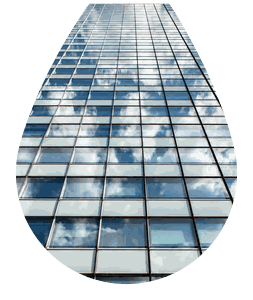
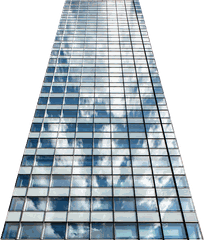
Stand the Corporate Gifting tower on its disc like the Bakhoor tin
The owner rejected the version clipped round to the rim. The photo looks
steeply up at the tower, so as shot it is far wider at the bottom than a
circle can hold standing up. Its perspective is partly straightened (roof 36%
of the base instead of 19%) and it is cut on a window line for a flat base.
It now takes the tin's placement exactly: 82% of the circle wide, base 24% up
with the disc showing below, the roof rising past the top edge, and the same
shadows and hover lift. The pop-tower placement and its build hook are gone.

Measured: the same rise as the tin (11.9px on the 58px phone circle, 22.1px on
the 108px desktop one) and the same room below the base (13.9px and 25.9px).
The base corners sit at 0.97 of the radius, inside the circle, and on phones
the roof clears the first-row labels by 101px. At 375x812 the circles still
clear the tab bar by 6px.

diff --git a/flow/index.html b/flow/index.html
@@ -13,7 +13,7 @@
 <link rel="icon" type="image/png" sizes="32x32" href="assets/img/favicon-32.png">
 <link rel="icon" type="image/png" sizes="16x16" href="assets/img/favicon-16.png">
 <link rel="apple-touch-icon" href="assets/img/apple-touch-icon.png">
-<link rel="stylesheet" href="assets/flow.css?v=0fdcc03d"></head><body class="page-index">
+<link rel="stylesheet" href="assets/flow.css?v=59b2db27"></head><body class="page-index">
 <div class="strip"><div class="wrap">
   <span><svg width="13" height="13" viewBox="0 0 24 24" fill="none" stroke="currentColor" stroke-width="2" stroke-linecap="round"><circle cx="12" cy="12" r="9"/><path d="M12 7v5l3 2"/></svg> Order by 2:00 PM for delivery today in Dubai &middot; <b>3h 47m</b></span>
   <span class="r"><span>Free UAE delivery over AED 150</span><span>Cash on delivery</span><a href="track-order.html">Track order</a><a href="#" data-langtoggle>العربية</a></span>
@@ -39,7 +39,7 @@
   <div class="dots" data-dots><i class="on" data-dot="0"></i><i data-dot="1"></i><i data-dot="2"></i><i data-dot="3"></i><i data-dot="4"></i></div>
 </div>
 
-<div class="catstrip"><div class="wrap"><div class="cs"><a class="c-oud" href="collection.html?cat=attars"><span class="circle"><img src="assets/cat/oud.jpg" alt="" width="108" height="108"></span><span>Attars/<wbr>Perfume Oils</span></a><a class="c-bak pop" href="collection.html?cat=bakhoor"><span class="circle"><img src="assets/cat/bak.png" alt="" width="108" height="108"></span><span>Bakhoor</span></a><a class="c-musk" href="collection.html?cat=edp"><span class="circle"><img src="assets/cat/musk.jpg" alt="" width="108" height="108"></span><span>EDP Sprays</span></a><a class="c-floral" href="gift-box.html"><span class="circle"><img src="assets/cat/floral.jpg" alt="" width="108" height="108"></span><span>Gift Sets</span></a><a class="c-fresh" href="collection.html?cat=gift-sets"><span class="circle"><img src="assets/cat/fresh.jpg" alt="" width="108" height="108"></span><span>Discovery</span></a><a class="c-amber" href="gift-box.html"><span class="circle"><img src="assets/cat/amber.jpg" alt="" width="108" height="108"></span><span>Shop by Occasion</span></a><a class="c-sweet pop pop-tower" href="corporate.html"><span class="circle"><img src="assets/cat/corporate.png" alt="" width="108" height="108"></span><span>Corporate Gifting</span></a></div></div></div>
+<div class="catstrip"><div class="wrap"><div class="cs"><a class="c-oud" href="collection.html?cat=attars"><span class="circle"><img src="assets/cat/oud.jpg" alt="" width="108" height="108"></span><span>Attars/<wbr>Perfume Oils</span></a><a class="c-bak pop" href="collection.html?cat=bakhoor"><span class="circle"><img src="assets/cat/bak.png" alt="" width="108" height="108"></span><span>Bakhoor</span></a><a class="c-musk" href="collection.html?cat=edp"><span class="circle"><img src="assets/cat/musk.jpg" alt="" width="108" height="108"></span><span>EDP Sprays</span></a><a class="c-floral" href="gift-box.html"><span class="circle"><img src="assets/cat/floral.jpg" alt="" width="108" height="108"></span><span>Gift Sets</span></a><a class="c-fresh" href="collection.html?cat=gift-sets"><span class="circle"><img src="assets/cat/fresh.jpg" alt="" width="108" height="108"></span><span>Discovery</span></a><a class="c-amber" href="gift-box.html"><span class="circle"><img src="assets/cat/amber.jpg" alt="" width="108" height="108"></span><span>Shop by Occasion</span></a><a class="c-sweet pop" href="corporate.html"><span class="circle"><img src="assets/cat/corporate.png" alt="" width="108" height="108"></span><span>Corporate Gifting</span></a></div></div></div>
 <div class="usp">
   <div><svg width="20" height="20" viewBox="0 0 24 24" fill="none" stroke="currentColor" stroke-width="1.6" stroke-linecap="round"><path d="M3 7h11v9H3z"/><path d="M14 10h4l3 3v3h-7z"/><circle cx="7" cy="18" r="2"/><circle cx="17" cy="18" r="2"/></svg><div><b>Free delivery over AED 150</b><span>AED 12 below · UAE only</span></div></div><div><svg width="20" height="20" viewBox="0 0 24 24" fill="none" stroke="currentColor" stroke-width="1.6" stroke-linecap="round"><circle cx="12" cy="12" r="9"/><path d="M12 7v5l3 2"/></svg><div><b>Same-day in Dubai</b><span>Before 2:00 PM · +AED 25</span></div></div><div><svg width="20" height="20" viewBox="0 0 24 24" fill="none" stroke="currentColor" stroke-width="1.6" stroke-linecap="round"><rect x="3" y="7" width="18" height="11" rx="1"/><circle cx="12" cy="12.5" r="2.5"/></svg><div><b>Cash on delivery</b><span>Under AED 300 · AED 8 fee</span></div></div><div><svg width="20" height="20" viewBox="0 0 24 24" fill="none" stroke="currentColor" stroke-width="1.6" stroke-linecap="round"><path d="M20 4C10 4 4 9 4 16c0 2 1 4 1 4s6-1 10-5 5-11 5-11z"/><path d="M5 20L14 11"/></svg><div><b>Alcohol-free ouds</b><span>Oil based · batch numbered</span></div></div>
 </div>
@@ -207,5 +207,5 @@
 </div><div class="bot"><span>&copy; 2026 BGS Corner General Trading LLC</span>
 <span>Cards &middot; Apple Pay &middot; Tabby &middot; Tamara &middot; Cash on delivery</span></div></div></footer>
 <div class="tabbar"><a href="index.html" aria-label="Home" title="Home" class="on" aria-current="page"><svg width="21" height="21" viewBox="0 0 24 24" fill="none" stroke="currentColor" stroke-width="1.6" stroke-linecap="round"><path d="M4 11.5 12 5l8 6.5"/><path d="M6 10.5V19h12v-8.5"/><path d="M10 19v-5h4v5"/></svg></a><a href="collection.html" aria-label="Shop" title="Shop"><svg width="21" height="21" viewBox="0 0 24 24" fill="none" stroke="currentColor" stroke-width="1.6" stroke-linecap="round"><rect x="4.5" y="4.5" width="6" height="6" rx="1"/><rect x="13.5" y="4.5" width="6" height="6" rx="1"/><rect x="4.5" y="13.5" width="6" height="6" rx="1"/><rect x="13.5" y="13.5" width="6" height="6" rx="1"/></svg></a><a href="gift-box.html" aria-label="Gifts" title="Gifts"><svg width="21" height="21" viewBox="0 0 24 24" fill="none" stroke="currentColor" stroke-width="1.6" stroke-linecap="round"><rect x="3.5" y="9" width="17" height="11" rx="1"/><path d="M3.5 13h17M12 9v11"/><path d="M12 9S9.5 4 7.5 5.5 10 9 12 9zm0 0s2.5-5 4.5-3.5S14 9 12 9z"/></svg></a><a href="cart.html" aria-label="Bag" title="Bag"><svg width="21" height="21" viewBox="0 0 24 24" fill="none" stroke="currentColor" stroke-width="1.6" stroke-linecap="round"><path d="M6 8h12l-1.2 12H7.2z"/><path d="M9 8V6a3 3 0 0 1 6 0v2"/></svg></a><a href="account.html" aria-label="Account" title="Account"><svg width="21" height="21" viewBox="0 0 24 24" fill="none" stroke="currentColor" stroke-width="1.6" stroke-linecap="round"><circle cx="12" cy="8" r="4"/><path d="M4 21c0-4.4 3.6-7 8-7s8 2.6 8 7"/></svg></a></div>
-<script src="assets/catalogue.js?v=0fdcc03d"></script>
-<script src="assets/shop.js?v=0fdcc03d"></script></body></html>
+<script src="assets/catalogue.js?v=59b2db27"></script>
+<script src="assets/shop.js?v=59b2db27"></script></body></html>

diff --git a/flow/track-order.html b/flow/track-order.html
@@ -13,7 +13,7 @@
 <link rel="icon" type="image/png" sizes="32x32" href="assets/img/favicon-32.png">
 <link rel="icon" type="image/png" sizes="16x16" href="assets/img/favicon-16.png">
 <link rel="apple-touch-icon" href="assets/img/apple-touch-icon.png">
-<link rel="stylesheet" href="assets/flow.css?v=0fdcc03d"></head><body class="page-track-order">
+<link rel="stylesheet" href="assets/flow.css?v=59b2db27"></head><body class="page-track-order">
 <div class="strip"><div class="wrap">
   <span><svg width="13" height="13" viewBox="0 0 24 24" fill="none" stroke="currentColor" stroke-width="2" stroke-linecap="round"><circle cx="12" cy="12" r="9"/><path d="M12 7v5l3 2"/></svg> Order by 2:00 PM for delivery today in Dubai &middot; <b>3h 47m</b></span>
   <span class="r"><span>Free UAE delivery over AED 150</span><span>Cash on delivery</span><a href="track-order.html">Track order</a><a href="#" data-langtoggle>العربية</a></span>
@@ -59,5 +59,5 @@
 </div><div class="bot"><span>&copy; 2026 BGS Corner General Trading LLC</span>
 <span>Cards &middot; Apple Pay &middot; Tabby &middot; Tamara &middot; Cash on delivery</span></div></div></footer>
 <div class="tabbar"><a href="index.html" aria-label="Home" title="Home" class="on" aria-current="page"><svg width="21" height="21" viewBox="0 0 24 24" fill="none" stroke="currentColor" stroke-width="1.6" stroke-linecap="round"><path d="M4 11.5 12 5l8 6.5"/><path d="M6 10.5V19h12v-8.5"/><path d="M10 19v-5h4v5"/></svg></a><a href="collection.html" aria-label="Shop" title="Shop"><svg width="21" height="21" viewBox="0 0 24 24" fill="none" stroke="currentColor" stroke-width="1.6" stroke-linecap="round"><rect x="4.5" y="4.5" width="6" height="6" rx="1"/><rect x="13.5" y="4.5" width="6" height="6" rx="1"/><rect x="4.5" y="13.5" width="6" height="6" rx="1"/><rect x="13.5" y="13.5" width="6" height="6" rx="1"/></svg></a><a href="gift-box.html" aria-label="Gifts" title="Gifts"><svg width="21" height="21" viewBox="0 0 24 24" fill="none" stroke="currentColor" stroke-width="1.6" stroke-linecap="round"><rect x="3.5" y="9" width="17" height="11" rx="1"/><path d="M3.5 13h17M12 9v11"/><path d="M12 9S9.5 4 7.5 5.5 10 9 12 9zm0 0s2.5-5 4.5-3.5S14 9 12 9z"/></svg></a><a href="cart.html" aria-label="Bag" title="Bag"><svg width="21" height="21" viewBox="0 0 24 24" fill="none" stroke="currentColor" stroke-width="1.6" stroke-linecap="round"><path d="M6 8h12l-1.2 12H7.2z"/><path d="M9 8V6a3 3 0 0 1 6 0v2"/></svg></a><a href="account.html" aria-label="Account" title="Account"><svg width="21" height="21" viewBox="0 0 24 24" fill="none" stroke="currentColor" stroke-width="1.6" stroke-linecap="round"><circle cx="12" cy="8" r="4"/><path d="M4 21c0-4.4 3.6-7 8-7s8 2.6 8 7"/></svg></a></div>
-<script src="assets/catalogue.js?v=0fdcc03d"></script>
-<script src="assets/shop.js?v=0fdcc03d"></script></body></html>
+<script src="assets/catalogue.js?v=59b2db27"></script>
+<script src="assets/shop.js?v=59b2db27"></script></body></html>

diff --git a/flow/collection.html b/flow/collection.html
@@ -13,7 +13,7 @@
 <link rel="icon" type="image/png" sizes="32x32" href="assets/img/favicon-32.png">
 <link rel="icon" type="image/png" sizes="16x16" href="assets/img/favicon-16.png">
 <link rel="apple-touch-icon" href="assets/img/apple-touch-icon.png">
-<link rel="stylesheet" href="assets/flow.css?v=0fdcc03d"></head><body class="page-collection">
+<link rel="stylesheet" href="assets/flow.css?v=59b2db27"></head><body class="page-collection">
 <div class="strip"><div class="wrap">
   <span><svg width="13" height="13" viewBox="0 0 24 24" fill="none" stroke="currentColor" stroke-width="2" stroke-linecap="round"><circle cx="12" cy="12" r="9"/><path d="M12 7v5l3 2"/></svg> Order by 2:00 PM for delivery today in Dubai &middot; <b>3h 47m</b></span>
   <span class="r"><span>Free UAE delivery over AED 150</span><span>Cash on delivery</span><a href="track-order.html">Track order</a><a href="#" data-langtoggle>العربية</a></span>
@@ -78,5 +78,5 @@
 </div><div class="bot"><span>&copy; 2026 BGS Corner General Trading LLC</span>
 <span>Cards &middot; Apple Pay &middot; Tabby &middot; Tamara &middot; Cash on delivery</span></div></div></footer>
 <div class="tabbar"><a href="index.html" aria-label="Home" title="Home"><svg width="21" height="21" viewBox="0 0 24 24" fill="none" stroke="currentColor" stroke-width="1.6" stroke-linecap="round"><path d="M4 11.5 12 5l8 6.5"/><path d="M6 10.5V19h12v-8.5"/><path d="M10 19v-5h4v5"/></svg></a><a href="collection.html" aria-label="Shop" title="Shop" class="on" aria-current="page"><svg width="21" height="21" viewBox="0 0 24 24" fill="none" stroke="currentColor" stroke-width="1.6" stroke-linecap="round"><rect x="4.5" y="4.5" width="6" height="6" rx="1"/><rect x="13.5" y="4.5" width="6" height="6" rx="1"/><rect x="4.5" y="13.5" width="6" height="6" rx="1"/><rect x="13.5" y="13.5" width="6" height="6" rx="1"/></svg></a><a href="gift-box.html" aria-label="Gifts" title="Gifts"><svg width="21" height="21" viewBox="0 0 24 24" fill="none" stroke="currentColor" stroke-width="1.6" stroke-linecap="round"><rect x="3.5" y="9" width="17" height="11" rx="1"/><path d="M3.5 13h17M12 9v11"/><path d="M12 9S9.5 4 7.5 5.5 10 9 12 9zm0 0s2.5-5 4.5-3.5S14 9 12 9z"/></svg></a><a href="cart.html" aria-label="Bag" title="Bag"><svg width="21" height="21" viewBox="0 0 24 24" fill="none" stroke="currentColor" stroke-width="1.6" stroke-linecap="round"><path d="M6 8h12l-1.2 12H7.2z"/><path d="M9 8V6a3 3 0 0 1 6 0v2"/></svg></a><a href="account.html" aria-label="Account" title="Account"><svg width="21" height="21" viewBox="0 0 24 24" fill="none" stroke="currentColor" stroke-width="1.6" stroke-linecap="round"><circle cx="12" cy="8" r="4"/><path d="M4 21c0-4.4 3.6-7 8-7s8 2.6 8 7"/></svg></a></div>
-<script src="assets/catalogue.js?v=0fdcc03d"></script>
-<script src="assets/shop.js?v=0fdcc03d"></script></body></html>
+<script src="assets/catalogue.js?v=59b2db27"></script>
+<script src="assets/shop.js?v=59b2db27"></script></body></html>

diff --git a/flow/confirmed.html b/flow/confirmed.html
@@ -13,7 +13,7 @@
 <link rel="icon" type="image/png" sizes="32x32" href="assets/img/favicon-32.png">
 <link rel="icon" type="image/png" sizes="16x16" href="assets/img/favicon-16.png">
 <link rel="apple-touch-icon" href="assets/img/apple-touch-icon.png">
-<link rel="stylesheet" href="assets/flow.css?v=0fdcc03d"></head><body class="page-confirmed">
+<link rel="stylesheet" href="assets/flow.css?v=59b2db27"></head><body class="page-confirmed">
 <div class="strip"><div class="wrap">
   <span><svg width="13" height="13" viewBox="0 0 24 24" fill="none" stroke="currentColor" stroke-width="2" stroke-linecap="round"><circle cx="12" cy="12" r="9"/><path d="M12 7v5l3 2"/></svg> Order by 2:00 PM for delivery today in Dubai &middot; <b>3h 47m</b></span>
   <span class="r"><span>Free UAE delivery over AED 150</span><span>Cash on delivery</span><a href="track-order.html">Track order</a><a href="#" data-langtoggle>العربية</a></span>
@@ -57,5 +57,5 @@
 </div><div class="bot"><span>&copy; 2026 BGS Corner General Trading LLC</span>
 <span>Cards &middot; Apple Pay &middot; Tabby &middot; Tamara &middot; Cash on delivery</span></div></div></footer>
 <div class="tabbar"><a href="index.html" aria-label="Home" title="Home"><svg width="21" height="21" viewBox="0 0 24 24" fill="none" stroke="currentColor" stroke-width="1.6" stroke-linecap="round"><path d="M4 11.5 12 5l8 6.5"/><path d="M6 10.5V19h12v-8.5"/><path d="M10 19v-5h4v5"/></svg></a><a href="collection.html" aria-label="Shop" title="Shop"><svg width="21" height="21" viewBox="0 0 24 24" fill="none" stroke="currentColor" stroke-width="1.6" stroke-linecap="round"><rect x="4.5" y="4.5" width="6" height="6" rx="1"/><rect x="13.5" y="4.5" width="6" height="6" rx="1"/><rect x="4.5" y="13.5" width="6" height="6" rx="1"/><rect x="13.5" y="13.5" width="6" height="6" rx="1"/></svg></a><a href="gift-box.html" aria-label="Gifts" title="Gifts"><svg width="21" height="21" viewBox="0 0 24 24" fill="none" stroke="currentColor" stroke-width="1.6" stroke-linecap="round"><rect x="3.5" y="9" width="17" height="11" rx="1"/><path d="M3.5 13h17M12 9v11"/><path d="M12 9S9.5 4 7.5 5.5 10 9 12 9zm0 0s2.5-5 4.5-3.5S14 9 12 9z"/></svg></a><a href="cart.html" aria-label="Bag" title="Bag" class="on" aria-current="page"><svg width="21" height="21" viewBox="0 0 24 24" fill="none" stroke="currentColor" stroke-width="1.6" stroke-linecap="round"><path d="M6 8h12l-1.2 12H7.2z"/><path d="M9 8V6a3 3 0 0 1 6 0v2"/></svg></a><a href="account.html" aria-label="Account" title="Account"><svg width="21" height="21" viewBox="0 0 24 24" fill="none" stroke="currentColor" stroke-width="1.6" stroke-linecap="round"><circle cx="12" cy="8" r="4"/><path d="M4 21c0-4.4 3.6-7 8-7s8 2.6 8 7"/></svg></a></div>
-<script src="assets/catalogue.js?v=0fdcc03d"></script>
-<script src="assets/shop.js?v=0fdcc03d"></script></body></html>
+<script src="assets/catalogue.js?v=59b2db27"></script>
+<script src="assets/shop.js?v=59b2db27"></script></body></html>

diff --git a/flow/corporate.html b/flow/corporate.html
@@ -13,7 +13,7 @@
 <link rel="icon" type="image/png" sizes="32x32" href="assets/img/favicon-32.png">
 <link rel="icon" type="image/png" sizes="16x16" href="assets/img/favicon-16.png">
 <link rel="apple-touch-icon" href="assets/img/apple-touch-icon.png">
-<link rel="stylesheet" href="assets/flow.css?v=0fdcc03d"></head><body class="page-corporate">
+<link rel="stylesheet" href="assets/flow.css?v=59b2db27"></head><body class="page-corporate">
 <div class="strip"><div class="wrap">
   <span><svg width="13" height="13" viewBox="0 0 24 24" fill="none" stroke="currentColor" stroke-width="2" stroke-linecap="round"><circle cx="12" cy="12" r="9"/><path d="M12 7v5l3 2"/></svg> Order by 2:00 PM for delivery today in Dubai &middot; <b>3h 47m</b></span>
   <span class="r"><span>Free UAE delivery over AED 150</span><span>Cash on delivery</span><a href="track-order.html">Track order</a><a href="#" data-langtoggle>العربية</a></span>
@@ -59,5 +59,5 @@
 </div><div class="bot"><span>&copy; 2026 BGS Corner General Trading LLC</span>
 <span>Cards &middot; Apple Pay &middot; Tabby &middot; Tamara &middot; Cash on delivery</span></div></div></footer>
 <div class="tabbar"><a href="index.html" aria-label="Home" title="Home" class="on" aria-current="page"><svg width="21" height="21" viewBox="0 0 24 24" fill="none" stroke="currentColor" stroke-width="1.6" stroke-linecap="round"><path d="M4 11.5 12 5l8 6.5"/><path d="M6 10.5V19h12v-8.5"/><path d="M10 19v-5h4v5"/></svg></a><a href="collection.html" aria-label="Shop" title="Shop"><svg width="21" height="21" viewBox="0 0 24 24" fill="none" stroke="currentColor" stroke-width="1.6" stroke-linecap="round"><rect x="4.5" y="4.5" width="6" height="6" rx="1"/><rect x="13.5" y="4.5" width="6" height="6" rx="1"/><rect x="4.5" y="13.5" width="6" height="6" rx="1"/><rect x="13.5" y="13.5" width="6" height="6" rx="1"/></svg></a><a href="gift-box.html" aria-label="Gifts" title="Gifts"><svg width="21" height="21" viewBox="0 0 24 24" fill="none" stroke="currentColor" stroke-width="1.6" stroke-linecap="round"><rect x="3.5" y="9" width="17" height="11" rx="1"/><path d="M3.5 13h17M12 9v11"/><path d="M12 9S9.5 4 7.5 5.5 10 9 12 9zm0 0s2.5-5 4.5-3.5S14 9 12 9z"/></svg></a><a href="cart.html" aria-label="Bag" title="Bag"><svg width="21" height="21" viewBox="0 0 24 24" fill="none" stroke="currentColor" stroke-width="1.6" stroke-linecap="round"><path d="M6 8h12l-1.2 12H7.2z"/><path d="M9 8V6a3 3 0 0 1 6 0v2"/></svg></a><a href="account.html" aria-label="Account" title="Account"><svg width="21" height="21" viewBox="0 0 24 24" fill="none" stroke="currentColor" stroke-width="1.6" stroke-linecap="round"><circle cx="12" cy="8" r="4"/><path d="M4 21c0-4.4 3.6-7 8-7s8 2.6 8 7"/></svg></a></div>
-<script src="assets/catalogue.js?v=0fdcc03d"></script>
-<script src="assets/shop.js?v=0fdcc03d"></script></body></html>
+<script src="assets/catalogue.js?v=59b2db27"></script>
+<script src="assets/shop.js?v=59b2db27"></script></body></html>

diff --git a/flow/account.html b/flow/account.html
@@ -13,7 +13,7 @@
 <link rel="icon" type="image/png" sizes="32x32" href="assets/img/favicon-32.png">
 <link rel="icon" type="image/png" sizes="16x16" href="assets/img/favicon-16.png">
 <link rel="apple-touch-icon" href="assets/img/apple-touch-icon.png">
-<link rel="stylesheet" href="assets/flow.css?v=0fdcc03d"></head><body class="page-account">
+<link rel="stylesheet" href="assets/flow.css?v=59b2db27"></head><body class="page-account">
 <div class="strip"><div class="wrap">
   <span><svg width="13" height="13" viewBox="0 0 24 24" fill="none" stroke="currentColor" stroke-width="2" stroke-linecap="round"><circle cx="12" cy="12" r="9"/><path d="M12 7v5l3 2"/></svg> Order by 2:00 PM for delivery today in Dubai &middot; <b>3h 47m</b></span>
   <span class="r"><span>Free UAE delivery over AED 150</span><span>Cash on delivery</span><a href="track-order.html">Track order</a><a href="#" data-langtoggle>العربية</a></span>
@@ -129,5 +129,5 @@
 </div><div class="bot"><span>&copy; 2026 BGS Corner General Trading LLC</span>
 <span>Cards &middot; Apple Pay &middot; Tabby &middot; Tamara &middot; Cash on delivery</span></div></div></footer>
 <div class="tabbar"><a href="index.html" aria-label="Home" title="Home"><svg width="21" height="21" viewBox="0 0 24 24" fill="none" stroke="currentColor" stroke-width="1.6" stroke-linecap="round"><path d="M4 11.5 12 5l8 6.5"/><path d="M6 10.5V19h12v-8.5"/><path d="M10 19v-5h4v5"/></svg></a><a href="collection.html" aria-label="Shop" title="Shop"><svg width="21" height="21" viewBox="0 0 24 24" fill="none" stroke="currentColor" stroke-width="1.6" stroke-linecap="round"><rect x="4.5" y="4.5" width="6" height="6" rx="1"/><rect x="13.5" y="4.5" width="6" height="6" rx="1"/><rect x="4.5" y="13.5" width="6" height="6" rx="1"/><rect x="13.5" y="13.5" width="6" height="6" rx="1"/></svg></a><a href="gift-box.html" aria-label="Gifts" title="Gifts"><svg width="21" height="21" viewBox="0 0 24 24" fill="none" stroke="currentColor" stroke-width="1.6" stroke-linecap="round"><rect x="3.5" y="9" width="17" height="11" rx="1"/><path d="M3.5 13h17M12 9v11"/><path d="M12 9S9.5 4 7.5 5.5 10 9 12 9zm0 0s2.5-5 4.5-3.5S14 9 12 9z"/></svg></a><a href="cart.html" aria-label="Bag" title="Bag"><svg width="21" height="21" viewBox="0 0 24 24" fill="none" stroke="currentColor" stroke-width="1.6" stroke-linecap="round"><path d="M6 8h12l-1.2 12H7.2z"/><path d="M9 8V6a3 3 0 0 1 6 0v2"/></svg></a><a href="account.html" aria-label="Account" title="Account" class="on" aria-current="page"><svg width="21" height="21" viewBox="0 0 24 24" fill="none" stroke="currentColor" stroke-width="1.6" stroke-linecap="round"><circle cx="12" cy="8" r="4"/><path d="M4 21c0-4.4 3.6-7 8-7s8 2.6 8 7"/></svg></a></div>
-<script src="assets/catalogue.js?v=0fdcc03d"></script>
-<script src="assets/shop.js?v=0fdcc03d"></script></body></html>
+<script src="assets/catalogue.js?v=59b2db27"></script>
+<script src="assets/shop.js?v=59b2db27"></script></body></html>

diff --git a/flow/checkout.html b/flow/checkout.html
@@ -13,7 +13,7 @@
 <link rel="icon" type="image/png" sizes="32x32" href="assets/img/favicon-32.png">
 <link rel="icon" type="image/png" sizes="16x16" href="assets/img/favicon-16.png">
 <link rel="apple-touch-icon" href="assets/img/apple-touch-icon.png">
-<link rel="stylesheet" href="assets/flow.css?v=0fdcc03d"></head><body class="page-checkout">
+<link rel="stylesheet" href="assets/flow.css?v=59b2db27"></head><body class="page-checkout">
 <div class="strip"><div class="wrap">
   <span><svg width="13" height="13" viewBox="0 0 24 24" fill="none" stroke="currentColor" stroke-width="2" stroke-linecap="round"><circle cx="12" cy="12" r="9"/><path d="M12 7v5l3 2"/></svg> Order by 2:00 PM for delivery today in Dubai &middot; <b>3h 47m</b></span>
   <span class="r"><span>Free UAE delivery over AED 150</span><span>Cash on delivery</span><a href="track-order.html">Track order</a><a href="#" data-langtoggle>العربية</a></span>
@@ -69,5 +69,5 @@
 </div><div class="bot"><span>&copy; 2026 BGS Corner General Trading LLC</span>
 <span>Cards &middot; Apple Pay &middot; Tabby &middot; Tamara &middot; Cash on delivery</span></div></div></footer>
 <div class="tabbar"><a href="index.html" aria-label="Home" title="Home"><svg width="21" height="21" viewBox="0 0 24 24" fill="none" stroke="currentColor" stroke-width="1.6" stroke-linecap="round"><path d="M4 11.5 12 5l8 6.5"/><path d="M6 10.5V19h12v-8.5"/><path d="M10 19v-5h4v5"/></svg></a><a href="collection.html" aria-label="Shop" title="Shop"><svg width="21" height="21" viewBox="0 0 24 24" fill="none" stroke="currentColor" stroke-width="1.6" stroke-linecap="round"><rect x="4.5" y="4.5" width="6" height="6" rx="1"/><rect x="13.5" y="4.5" width="6" height="6" rx="1"/><rect x="4.5" y="13.5" width="6" height="6" rx="1"/><rect x="13.5" y="13.5" width="6" height="6" rx="1"/></svg></a><a href="gift-box.html" aria-label="Gifts" title="Gifts"><svg width="21" height="21" viewBox="0 0 24 24" fill="none" stroke="currentColor" stroke-width="1.6" stroke-linecap="round"><rect x="3.5" y="9" width="17" height="11" rx="1"/><path d="M3.5 13h17M12 9v11"/><path d="M12 9S9.5 4 7.5 5.5 10 9 12 9zm0 0s2.5-5 4.5-3.5S14 9 12 9z"/></svg></a><a href="cart.html" aria-label="Bag" title="Bag" class="on" aria-current="page"><svg width="21" height="21" viewBox="0 0 24 24" fill="none" stroke="currentColor" stroke-width="1.6" stroke-linecap="round"><path d="M6 8h12l-1.2 12H7.2z"/><path d="M9 8V6a3 3 0 0 1 6 0v2"/></svg></a><a href="account.html" aria-label="Account" title="Account"><svg width="21" height="21" viewBox="0 0 24 24" fill="none" stroke="currentColor" stroke-width="1.6" stroke-linecap="round"><circle cx="12" cy="8" r="4"/><path d="M4 21c0-4.4 3.6-7 8-7s8 2.6 8 7"/></svg></a></div>
-<script src="assets/catalogue.js?v=0fdcc03d"></script>
-<script src="assets/shop.js?v=0fdcc03d"></script></body></html>
+<script src="assets/catalogue.js?v=59b2db27"></script>
+<script src="assets/shop.js?v=59b2db27"></script></body></html>

diff --git a/flow/gift-box.html b/flow/gift-box.html
@@ -13,7 +13,7 @@
 <link rel="icon" type="image/png" sizes="32x32" href="assets/img/favicon-32.png">
 <link rel="icon" type="image/png" sizes="16x16" href="assets/img/favicon-16.png">
 <link rel="apple-touch-icon" href="assets/img/apple-touch-icon.png">
-<link rel="stylesheet" href="assets/flow.css?v=0fdcc03d"></head><body class="page-gift-box">
+<link rel="stylesheet" href="assets/flow.css?v=59b2db27"></head><body class="page-gift-box">
 <div class="strip"><div class="wrap">
   <span><svg width="13" height="13" viewBox="0 0 24 24" fill="none" stroke="currentColor" stroke-width="2" stroke-linecap="round"><circle cx="12" cy="12" r="9"/><path d="M12 7v5l3 2"/></svg> Order by 2:00 PM for delivery today in Dubai &middot; <b>3h 47m</b></span>
   <span class="r"><span>Free UAE delivery over AED 150</span><span>Cash on delivery</span><a href="track-order.html">Track order</a><a href="#" data-langtoggle>العربية</a></span>
@@ -99,5 +99,5 @@
 </div><div class="bot"><span>&copy; 2026 BGS Corner General Trading LLC</span>
 <span>Cards &middot; Apple Pay &middot; Tabby &middot; Tamara &middot; Cash on delivery</span></div></div></footer>
 <div class="tabbar"><a href="index.html" aria-label="Home" title="Home"><svg width="21" height="21" viewBox="0 0 24 24" fill="none" stroke="currentColor" stroke-width="1.6" stroke-linecap="round"><path d="M4 11.5 12 5l8 6.5"/><path d="M6 10.5V19h12v-8.5"/><path d="M10 19v-5h4v5"/></svg></a><a href="collection.html" aria-label="Shop" title="Shop"><svg width="21" height="21" viewBox="0 0 24 24" fill="none" stroke="currentColor" stroke-width="1.6" stroke-linecap="round"><rect x="4.5" y="4.5" width="6" height="6" rx="1"/><rect x="13.5" y="4.5" width="6" height="6" rx="1"/><rect x="4.5" y="13.5" width="6" height="6" rx="1"/><rect x="13.5" y="13.5" width="6" height="6" rx="1"/></svg></a><a href="gift-box.html" aria-label="Gifts" title="Gifts" class="on" aria-current="page"><svg width="21" height="21" viewBox="0 0 24 24" fill="none" stroke="currentColor" stroke-width="1.6" stroke-linecap="round"><rect x="3.5" y="9" width="17" height="11" rx="1"/><path d="M3.5 13h17M12 9v11"/><path d="M12 9S9.5 4 7.5 5.5 10 9 12 9zm0 0s2.5-5 4.5-3.5S14 9 12 9z"/></svg></a><a href="cart.html" aria-label="Bag" title="Bag"><svg width="21" height="21" viewBox="0 0 24 24" fill="none" stroke="currentColor" stroke-width="1.6" stroke-linecap="round"><path d="M6 8h12l-1.2 12H7.2z"/><path d="M9 8V6a3 3 0 0 1 6 0v2"/></svg></a><a href="account.html" aria-label="Account" title="Account"><svg width="21" height="21" viewBox="0 0 24 24" fill="none" stroke="currentColor" stroke-width="1.6" stroke-linecap="round"><circle cx="12" cy="8" r="4"/><path d="M4 21c0-4.4 3.6-7 8-7s8 2.6 8 7"/></svg></a></div>
-<script src="assets/catalogue.js?v=0fdcc03d"></script>
-<script src="assets/shop.js?v=0fdcc03d"></script></body></html>
+<script src="assets/catalogue.js?v=59b2db27"></script>
+<script src="assets/shop.js?v=59b2db27"></script></body></html>

diff --git a/flow/product.html b/flow/product.html
@@ -13,7 +13,7 @@
 <link rel="icon" type="image/png" sizes="32x32" href="assets/img/favicon-32.png">
 <link rel="icon" type="image/png" sizes="16x16" href="assets/img/favicon-16.png">
 <link rel="apple-touch-icon" href="assets/img/apple-touch-icon.png">
-<link rel="stylesheet" href="assets/flow.css?v=0fdcc03d"></head><body class="page-product">
+<link rel="stylesheet" href="assets/flow.css?v=59b2db27"></head><body class="page-product">
 <div class="strip"><div class="wrap">
   <span><svg width="13" height="13" viewBox="0 0 24 24" fill="none" stroke="currentColor" stroke-width="2" stroke-linecap="round"><circle cx="12" cy="12" r="9"/><path d="M12 7v5l3 2"/></svg> Order by 2:00 PM for delivery today in Dubai &middot; <b>3h 47m</b></span>
   <span class="r"><span>Free UAE delivery over AED 150</span><span>Cash on delivery</span><a href="track-order.html">Track order</a><a href="#" data-langtoggle>العربية</a></span>
@@ -166,5 +166,5 @@
 </div><div class="bot"><span>&copy; 2026 BGS Corner General Trading LLC</span>
 <span>Cards &middot; Apple Pay &middot; Tabby &middot; Tamara &middot; Cash on delivery</span></div></div></footer>
 <div class="tabbar"><a href="index.html" aria-label="Home" title="Home"><svg width="21" height="21" viewBox="0 0 24 24" fill="none" stroke="currentColor" stroke-width="1.6" stroke-linecap="round"><path d="M4 11.5 12 5l8 6.5"/><path d="M6 10.5V19h12v-8.5"/><path d="M10 19v-5h4v5"/></svg></a><a href="collection.html" aria-label="Shop" title="Shop" class="on" aria-current="page"><svg width="21" height="21" viewBox="0 0 24 24" fill="none" stroke="currentColor" stroke-width="1.6" stroke-linecap="round"><rect x="4.5" y="4.5" width="6" height="6" rx="1"/><rect x="13.5" y="4.5" width="6" height="6" rx="1"/><rect x="4.5" y="13.5" width="6" height="6" rx="1"/><rect x="13.5" y="13.5" width="6" height="6" rx="1"/></svg></a><a href="gift-box.html" aria-label="Gifts" title="Gifts"><svg width="21" height="21" viewBox="0 0 24 24" fill="none" stroke="currentColor" stroke-width="1.6" stroke-linecap="round"><rect x="3.5" y="9" width="17" height="11" rx="1"/><path d="M3.5 13h17M12 9v11"/><path d="M12 9S9.5 4 7.5 5.5 10 9 12 9zm0 0s2.5-5 4.5-3.5S14 9 12 9z"/></svg></a><a href="cart.html" aria-label="Bag" title="Bag"><svg width="21" height="21" viewBox="0 0 24 24" fill="none" stroke="currentColor" stroke-width="1.6" stroke-linecap="round"><path d="M6 8h12l-1.2 12H7.2z"/><path d="M9 8V6a3 3 0 0 1 6 0v2"/></svg></a><a href="account.html" aria-label="Account" title="Account"><svg width="21" height="21" viewBox="0 0 24 24" fill="none" stroke="currentColor" stroke-width="1.6" stroke-linecap="round"><circle cx="12" cy="8" r="4"/><path d="M4 21c0-4.4 3.6-7 8-7s8 2.6 8 7"/></svg></a></div>
-<script src="assets/catalogue.js?v=0fdcc03d"></script>
-<script src="assets/shop.js?v=0fdcc03d"></script></body></html>
+<script src="assets/catalogue.js?v=59b2db27"></script>
+<script src="assets/shop.js?v=59b2db27"></script></body></html>

diff --git a/flow/quiz.html b/flow/quiz.html
@@ -13,7 +13,7 @@
 <link rel="icon" type="image/png" sizes="32x32" href="assets/img/favicon-32.png">
 <link rel="icon" type="image/png" sizes="16x16" href="assets/img/favicon-16.png">
 <link rel="apple-touch-icon" href="assets/img/apple-touch-icon.png">
-<link rel="stylesheet" href="assets/flow.css?v=0fdcc03d"></head><body class="page-quiz">
+<link rel="stylesheet" href="assets/flow.css?v=59b2db27"></head><body class="page-quiz">
 <div class="strip"><div class="wrap">
   <span><svg width="13" height="13" viewBox="0 0 24 24" fill="none" stroke="currentColor" stroke-width="2" stroke-linecap="round"><circle cx="12" cy="12" r="9"/><path d="M12 7v5l3 2"/></svg> Order by 2:00 PM for delivery today in Dubai &middot; <b>3h 47m</b></span>
   <span class="r"><span>Free UAE delivery over AED 150</span><span>Cash on delivery</span><a href="track-order.html">Track order</a><a href="#" data-langtoggle>العربية</a></span>
@@ -150,5 +150,5 @@
 </div><div class="bot"><span>&copy; 2026 BGS Corner General Trading LLC</span>
 <span>Cards &middot; Apple Pay &middot; Tabby &middot; Tamara &middot; Cash on delivery</span></div></div></footer>
 <div class="tabbar"><a href="index.html" aria-label="Home" title="Home" class="on" aria-current="page"><svg width="21" height="21" viewBox="0 0 24 24" fill="none" stroke="currentColor" stroke-width="1.6" stroke-linecap="round"><path d="M4 11.5 12 5l8 6.5"/><path d="M6 10.5V19h12v-8.5"/><path d="M10 19v-5h4v5"/></svg></a><a href="collection.html" aria-label="Shop" title="Shop"><svg width="21" height="21" viewBox="0 0 24 24" fill="none" stroke="currentColor" stroke-width="1.6" stroke-linecap="round"><rect x="4.5" y="4.5" width="6" height="6" rx="1"/><rect x="13.5" y="4.5" width="6" height="6" rx="1"/><rect x="4.5" y="13.5" width="6" height="6" rx="1"/><rect x="13.5" y="13.5" width="6" height="6" rx="1"/></svg></a><a href="gift-box.html" aria-label="Gifts" title="Gifts"><svg width="21" height="21" viewBox="0 0 24 24" fill="none" stroke="currentColor" stroke-width="1.6" stroke-linecap="round"><rect x="3.5" y="9" width="17" height="11" rx="1"/><path d="M3.5 13h17M12 9v11"/><path d="M12 9S9.5 4 7.5 5.5 10 9 12 9zm0 0s2.5-5 4.5-3.5S14 9 12 9z"/></svg></a><a href="cart.html" aria-label="Bag" title="Bag"><svg width="21" height="21" viewBox="0 0 24 24" fill="none" stroke="currentColor" stroke-width="1.6" stroke-linecap="round"><path d="M6 8h12l-1.2 12H7.2z"/><path d="M9 8V6a3 3 0 0 1 6 0v2"/></svg></a><a href="account.html" aria-label="Account" title="Account"><svg width="21" height="21" viewBox="0 0 24 24" fill="none" stroke="currentColor" stroke-width="1.6" stroke-linecap="round"><circle cx="12" cy="8" r="4"/><path d="M4 21c0-4.4 3.6-7 8-7s8 2.6 8 7"/></svg></a></div>
-<script src="assets/catalogue.js?v=0fdcc03d"></script>
-<script src="assets/shop.js?v=0fdcc03d"></script></body></html>
+<script src="assets/catalogue.js?v=59b2db27"></script>
+<script src="assets/shop.js?v=59b2db27"></script></body></html>

diff --git a/flow/cart.html b/flow/cart.html
@@ -13,7 +13,7 @@
 <link rel="icon" type="image/png" sizes="32x32" href="assets/img/favicon-32.png">
 <link rel="icon" type="image/png" sizes="16x16" href="assets/img/favicon-16.png">
 <link rel="apple-touch-icon" href="assets/img/apple-touch-icon.png">
-<link rel="stylesheet" href="assets/flow.css?v=0fdcc03d"></head><body class="page-cart">
+<link rel="stylesheet" href="assets/flow.css?v=59b2db27"></head><body class="page-cart">
 <div class="strip"><div class="wrap">
   <span><svg width="13" height="13" viewBox="0 0 24 24" fill="none" stroke="currentColor" stroke-width="2" stroke-linecap="round"><circle cx="12" cy="12" r="9"/><path d="M12 7v5l3 2"/></svg> Order by 2:00 PM for delivery today in Dubai &middot; <b>3h 47m</b></span>
   <span class="r"><span>Free UAE delivery over AED 150</span><span>Cash on delivery</span><a href="track-order.html">Track order</a><a href="#" data-langtoggle>العربية</a></span>
@@ -69,5 +69,5 @@
 </div><div class="bot"><span>&copy; 2026 BGS Corner General Trading LLC</span>
 <span>Cards &middot; Apple Pay &middot; Tabby &middot; Tamara &middot; Cash on delivery</span></div></div></footer>
 <div class="tabbar"><a href="index.html" aria-label="Home" title="Home"><svg width="21" height="21" viewBox="0 0 24 24" fill="none" stroke="currentColor" stroke-width="1.6" stroke-linecap="round"><path d="M4 11.5 12 5l8 6.5"/><path d="M6 10.5V19h12v-8.5"/><path d="M10 19v-5h4v5"/></svg></a><a href="collection.html" aria-label="Shop" title="Shop"><svg width="21" height="21" viewBox="0 0 24 24" fill="none" stroke="currentColor" stroke-width="1.6" stroke-linecap="round"><rect x="4.5" y="4.5" width="6" height="6" rx="1"/><rect x="13.5" y="4.5" width="6" height="6" rx="1"/><rect x="4.5" y="13.5" width="6" height="6" rx="1"/><rect x="13.5" y="13.5" width="6" height="6" rx="1"/></svg></a><a href="gift-box.html" aria-label="Gifts" title="Gifts"><svg width="21" height="21" viewBox="0 0 24 24" fill="none" stroke="currentColor" stroke-width="1.6" stroke-linecap="round"><rect x="3.5" y="9" width="17" height="11" rx="1"/><path d="M3.5 13h17M12 9v11"/><path d="M12 9S9.5 4 7.5 5.5 10 9 12 9zm0 0s2.5-5 4.5-3.5S14 9 12 9z"/></svg></a><a href="cart.html" aria-label="Bag" title="Bag" class="on" aria-current="page"><svg width="21" height="21" viewBox="0 0 24 24" fill="none" stroke="currentColor" stroke-width="1.6" stroke-linecap="round"><path d="M6 8h12l-1.2 12H7.2z"/><path d="M9 8V6a3 3 0 0 1 6 0v2"/></svg></a><a href="account.html" aria-label="Account" title="Account"><svg width="21" height="21" viewBox="0 0 24 24" fill="none" stroke="currentColor" stroke-width="1.6" stroke-linecap="round"><circle cx="12" cy="8" r="4"/><path d="M4 21c0-4.4 3.6-7 8-7s8 2.6 8 7"/></svg></a></div>
-<script src="assets/catalogue.js?v=0fdcc03d"></script>
-<script src="assets/shop.js?v=0fdcc03d"></script></body></html>
+<script src="assets/catalogue.js?v=59b2db27"></script>
+<script src="assets/shop.js?v=59b2db27"></script></body></html>

diff --git a/flow/assets/flow.css b/flow/assets/flow.css
@@ -1802,17 +1802,3 @@ footer .slot,footer .soon{color:#b9b0a4}
   .catnav a + a::before{content:"";position:absolute;left:0;top:calc(50% - 7px);
     width:1px;height:14px;background:rgba(232,200,126,.35);pointer-events:none}
 }
-
-/* ---- breakout placement: a tower ------------------------------------------
-   Corporate Gifting's picture is a skyscraper seen from below, cropped at the
-   bottom by its frame and wider than it is tall, so the tin's placement (a
-   whole object standing on the disc) would leave its cut base floating in the
-   circle. Instead the facade fills the disc and the roof rises 20.5% of the
-   circle past the top edge: the upper floors stand out past the rim, the lower
-   ones stay inside it, and the image's alpha (baked into corporate.png) follows
-   the rim there, so no cut edge shows. The clip is baked into the picture, so
-   the picture must not move against the disc: no contact shadow and no hover
-   lift of its own; the whole circle still lifts. */
-.cs a.pop.pop-tower .circle::before{content:none}
-.cs a.pop.pop-tower .circle img{top:-20.5%;bottom:auto;left:-1.5%;width:103%;height:122%}
-.cs a.pop.pop-tower:hover .circle img{transform:none}
